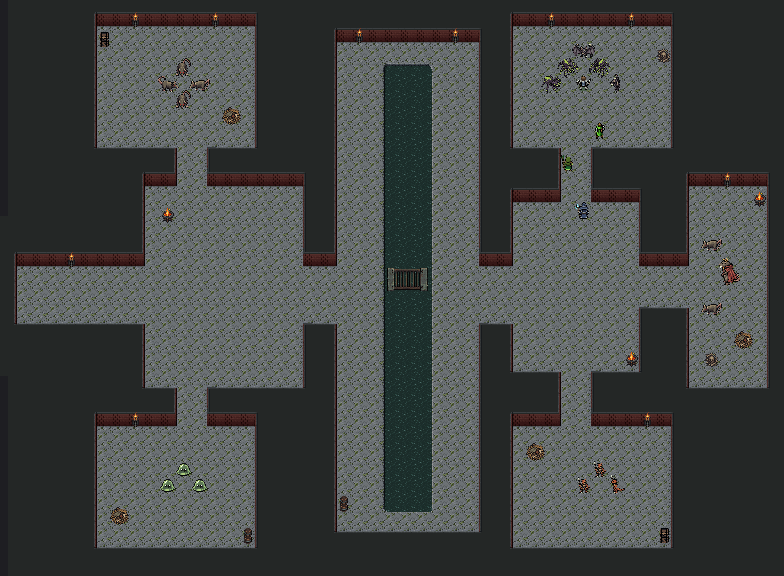
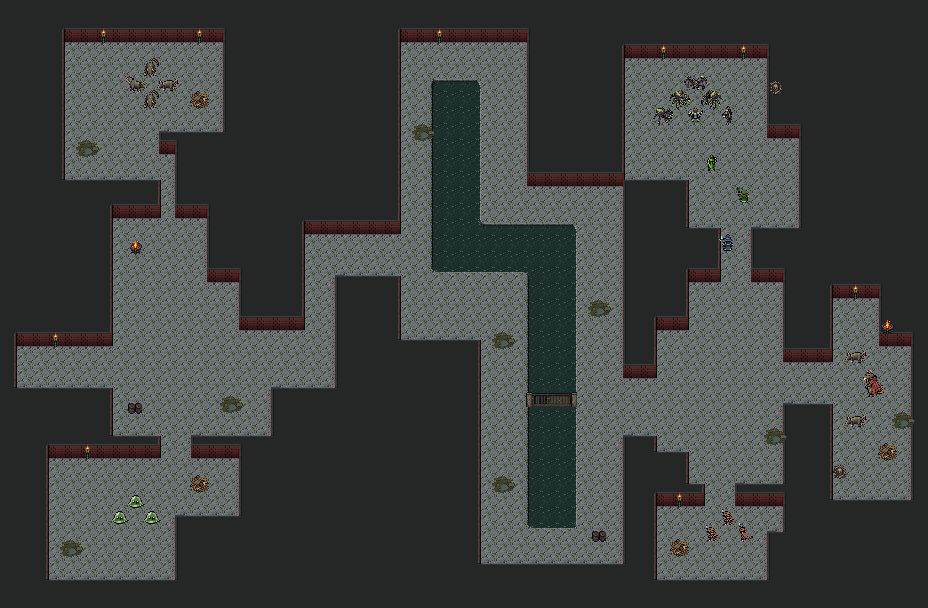
docs(art): reworked sewer layout + style-1 character lineup

diff --git a/docs/design/PIXELLAB_STYLE1_KIT.md b/docs/design/PIXELLAB_STYLE1_KIT.md
@@ -6,20 +6,32 @@ All assets are in Tyler's PixelLab account. Names start with `S1`.
 
 ## 1. Sewer map (the real one)
 
-**Map Workshop**: https://www.pixellab.ai/maps → **"Hearthrise — Sewer (style 1)"**, id `c8ed5928-aef3-409f-a712-c0ce2e73d46b`, 48×36 cells of 32 px, 46 objects placed.
-(Ignore the older map with the same name, `b473b67e-…`. It was a first pass whose saturated-blue tileset drifted from the reference. Delete it in the web app.)
+**Map Workshop**: https://www.pixellab.ai/maps → **"Hearthrise — Sewer (style 1)"**, id `c8ed5928-aef3-409f-a712-c0ce2e73d46b`, about 57×36 cells of 32 px, 51 objects. Reworked on 2026-10-15 to remove the boxy, mirror-symmetric first layout.
+(Ignore the older map with the same name, `b473b67e-…`. It was a drifted first pass; delete it in the web app.)
 
-Layout (x,y cells): entrance corridor on the west (x0–7, y17–19, 3 wide) → **west junction hall** (x8–17, y12–23) → 2-wide doors → **channel hall** (x20–28, y2–33, sewage x23–25 with a floor rim at both ends; iron grate bridge at y18) → **east junction hall** (x31–38, y13–22) → 3×2 door → **Rat King room** (x42–46, y12–23). Four **medium spawn rooms** (10×7) hang off the halls through 2-wide corridors:
+Layout (x,y cells):
+- West entrance corridor (x0–5, y20–22).
+- **West junction hall**, an L-shape with a notched corner (x6–15, y13–25).
+- A 1-wide squeeze north (x9, y7–12) into the **NW room**, an L-shape.
+- A 2-wide link south into the **SW room**, two offset blobs.
+- A 3-wide stretch east (x15–19, y20–22), then a dogleg up to the **channel hall**.
+- The **channel is off-centre and bent**: water runs x26–28 down to y15, east along y13–15, then down x32–34 to y31. A floor rim separates it from the walls everywhere.
+- The **long iron bridge** crosses the lower channel at y24.
+- A 3-wide corridor leads to the asymmetric **east junction hall** (x40–47, y17–28, notched).
+- North of the hall, a 2-wide dogleg runs to the irregular **NE room**.
+- South, a short link runs to the **SE room**.
+- A 2-wide corridor (x48–50, y22–23) leads to the **Rat King room** at the far east end (x51–55, y18–29).
 
-| Pocket | Room | Pack (grouped around the pull point) | Props |
-|---|---|---|---|
-| NW | x5–14 y2–8 | 4 giant rats around (10,5) | rat nest, crates, 2 torches |
-| SW | x5–14 y27–33 | 3 slimes around (10,30) | rat nest, barrels, torch |
-| NE | x31–40 y2–8 | **mid-fight pocket**: 3 venom spiders + 2 bats pulled tight onto the EK at (35,5) | bones, 2 torches |
-| SE | x31–40 y27–33 | 3 kobolds around (36,30) | rat nest, crates, torch |
-| Boss | x42–46 y12–23 | Rat King (44,17) + 2 rats | brazier, nest, bones, torch |
+| Pocket | Pack (grouped round the pull point) | Props |
+|---|---|---|
+| NW | 4 giant rats round (8,4) | rat nest, 2 torches, moss |
+| SW | 3 slimes round (7,31) | rat nest, torch, moss |
+| NE | **mid-fight**: EK (42,6) holding 3 spiders + 2 bats; RP (43,9), ED (45,11), MS (44,14) in the corridor | bones, 2 torches |
+| SE | 3 kobolds round (44,32) | rat nest, torch |
+| Boss | Rat King (53,23) + 2 rats | brazier, nest, bones, torch, moss |
 
-Preview renders (scratchpad, `…/scratchpad/k/`): `map_half.png` (full map at half scale), `sewer_fight_preview_2x.png` (NE pocket at 2x with the effects overlay drawn in).
+Floor variation comes from clustered moss-and-puddle decals (object `3ae7a8a6-ced2-4efc-9864-03fbce3fd00c`) placed by walls and water. The moss-floor Wang tileset I tried (`6cee696e-…`) rendered as pale smears, so I painted it back out.
+Previews (`…/scratchpad/k/`): `map_half.png` (whole map at half scale), `sewer_fight_preview_2x.png` (fight pocket from the first layout), `lineup.png` (character approval sheet: 4 heroes and 6 monsters, south-facing, 2× on sewer floor).
 
 ## 2. Asset ids by use
 
@@ -39,11 +51,16 @@ Missing pair: water ↔ wall top. Don't let water touch wall. Leave a 1-cell flo
 |---|---|
 | wall torch 32×48 | `55753820-4968-44d1-a5f7-c75da45bb5ff` |
 | brazier | `919538c5-164c-4320-8187-c740af7297c6` |
-| crates | `862bbc25-0d61-45be-a55f-0a2853b3dbe4` |
-| barrels | `bc948c13-0667-4e26-9795-54a141316515` |
+| crates (stacked; unused) | `862bbc25-0d61-45be-a55f-0a2853b3dbe4` |
+| barrels (stacked; unused) | `bc948c13-0667-4e26-9795-54a141316515` |
 | rat nest 48 | `bde80354-9814-4d4e-886c-7aa81b2b0153` |
 | bones | `2e4f8622-9db6-43fa-9633-a3296e847d71` |
-| iron grate bridge, horizontal (used) | `b815f910-45f2-4148-b15d-649c49b658bd` |
+| iron grate bridge, long horizontal (used, spans 3 water) | `61da1673-b961-4746-861c-04a56bca0077` |
+| iron grate bridge, short horizontal | `b815f910-45f2-4148-b15d-649c49b658bd` |
+| barrels pair, single layer (used) | `5e8f62c3-8d7d-43fc-b573-c39b1512c53e` |
+| moss + puddle decal (used) | `3ae7a8a6-ced2-4efc-9864-03fbce3fd00c` |
+| moss strip (reads as a ledge; unused) | `f85cd9ee-de82-4776-9116-cee542205dc1` |
+| crates pair (came out grey; unused) | `c04c9c61-1cde-4bba-92b2-ae1deeae7e80` |
 | iron grate bridge, vertical | `a2a59aec-71c0-4e31-b29a-4a78190d5791` |
 
 ### Monsters (Pro Flash, 8 directions, 48 canvas ≈ 36 px body)
